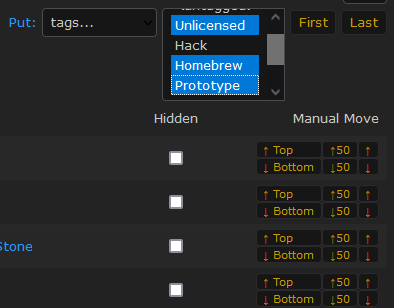
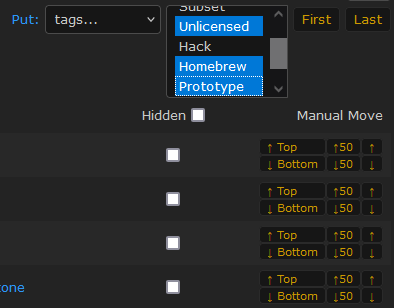
ReorderAwardsHelper: Select or unselect all raws for the "Hide" feature with the checkbox next to the corresponding header

diff --git a/RA_ReorderAwardsHelper.user.js b/RA_ReorderAwardsHelper.user.js
@@ -1,7 +1,7 @@
 // ==UserScript==
 // @name         RA_ReorderAwardsHelper
 // @namespace    RA
-// @version      0.2
+// @version      0.3
 // @description  Allows to sort game awards automatically on Reorder Site Awards page
 // @author       Mindhral
 // @homepage     https://github.com/Mindhral/RA_userscripts
@@ -69,7 +69,7 @@ const createButton = (label, parent) => {
     return button;
 };
 
-document.addEventListener("DOMContentLoaded", () => {
+function addSortBar() {
     const awardsTable = document.getElementById('game-reorder-table');
     if (awardsTable == null) return;
     const awardsRows = awardsTable.getElementsByClassName('award-table-row');
@@ -163,4 +163,24 @@ document.addEventListener("DOMContentLoaded", () => {
     const getGroupCompare = () => Compares.comparing(getGroupFilter());
     groupFirstButton.addEventListener('click', () => sortRows(Compares.reverse(getGroupCompare())));
     groupLastButton.addEventListener('click', () => sortRows(getGroupCompare()));
+}
+
+function addHideAllChecks() {
+    document.querySelectorAll('article > table').forEach(table => {
+        const hiddenHeader = [...table.querySelectorAll('thead th')].filter(cell => cell.innerText === 'Hidden')[0];
+        const hideAllCheck = document.createElement('input');
+        hideAllCheck.type = 'checkbox';
+        hiddenHeader.append(' ', hideAllCheck);
+        hideAllCheck.addEventListener('change', () => {
+            table.querySelectorAll('tbody input[type="checkbox"]').forEach((c => {
+                c.checked = hideAllCheck.checked;
+                c.dispatchEvent(new Event('change'));
+            }));
+        });
+    });
+}
+
+document.addEventListener("DOMContentLoaded", () => {
+    addSortBar();
+    addHideAllChecks();
 });

diff --git a/README.md b/README.md
@@ -245,6 +245,8 @@ Allows to do some automatic sorting on *Reorder Site Awards* page.
 
 ![move awards group](/assets/ReorderAwardsHelper_groups.png) ![move awards group](/assets/ReorderAwardsHelper_tags_multi.png)
 
+3. Select or unselect all raws for the *Hide* feature with the checkbox next to the corresponding header
+
 To use a multi-criteria sorting, apply the different options in "reverse order". For example, to obtain the following result, where each section is ordered by title:
 
 ![sort awards example](/assets/ReorderAwardsHelper_example.png)
